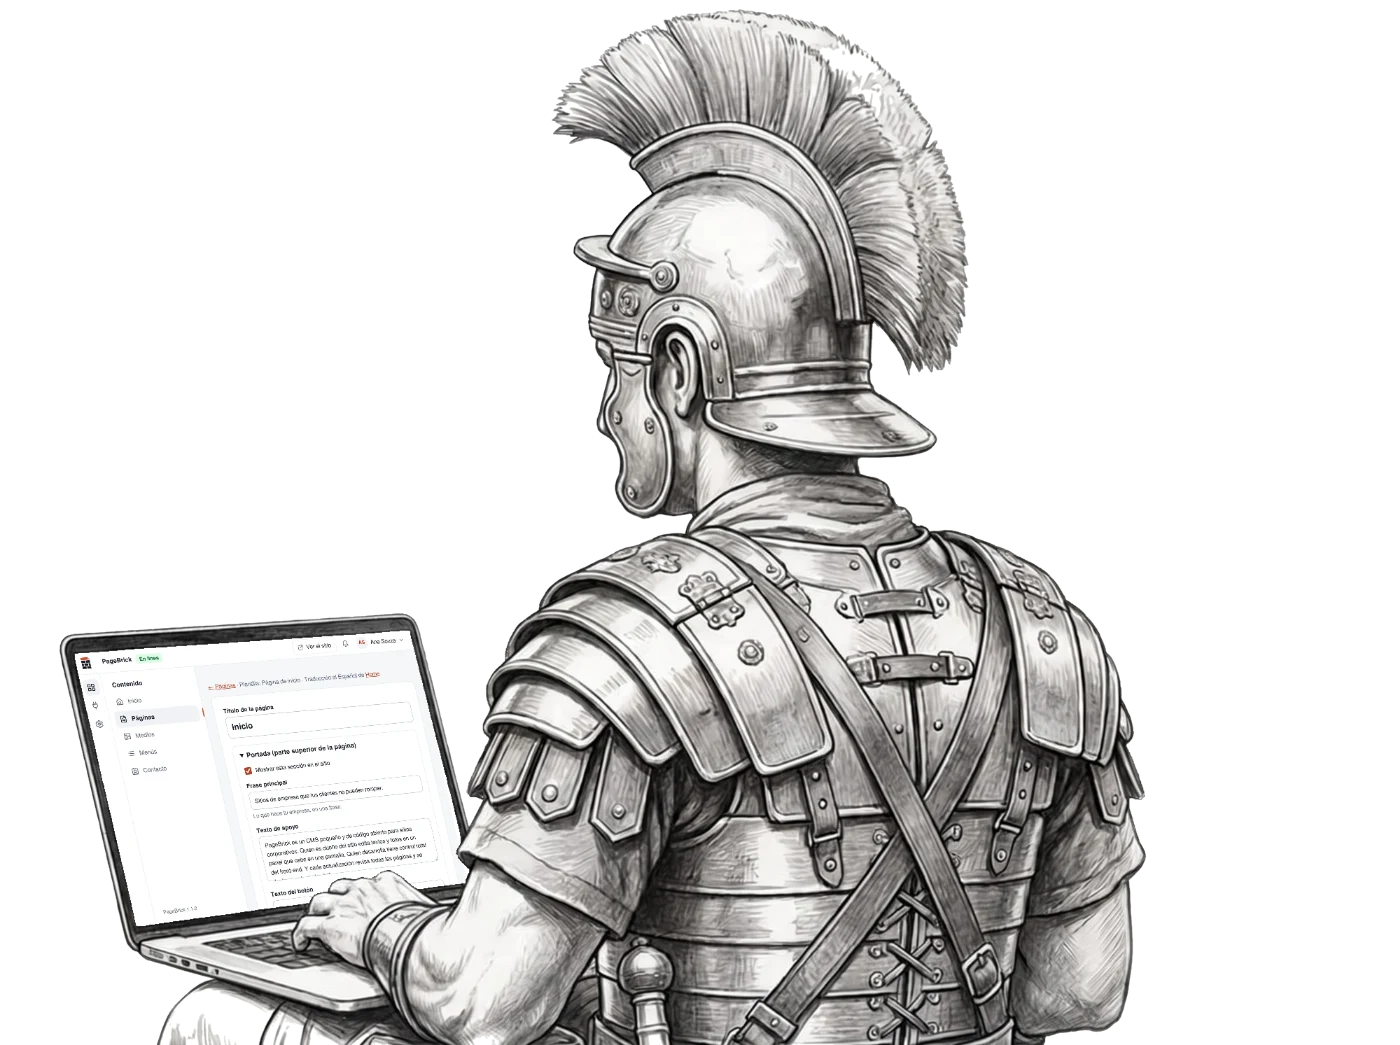
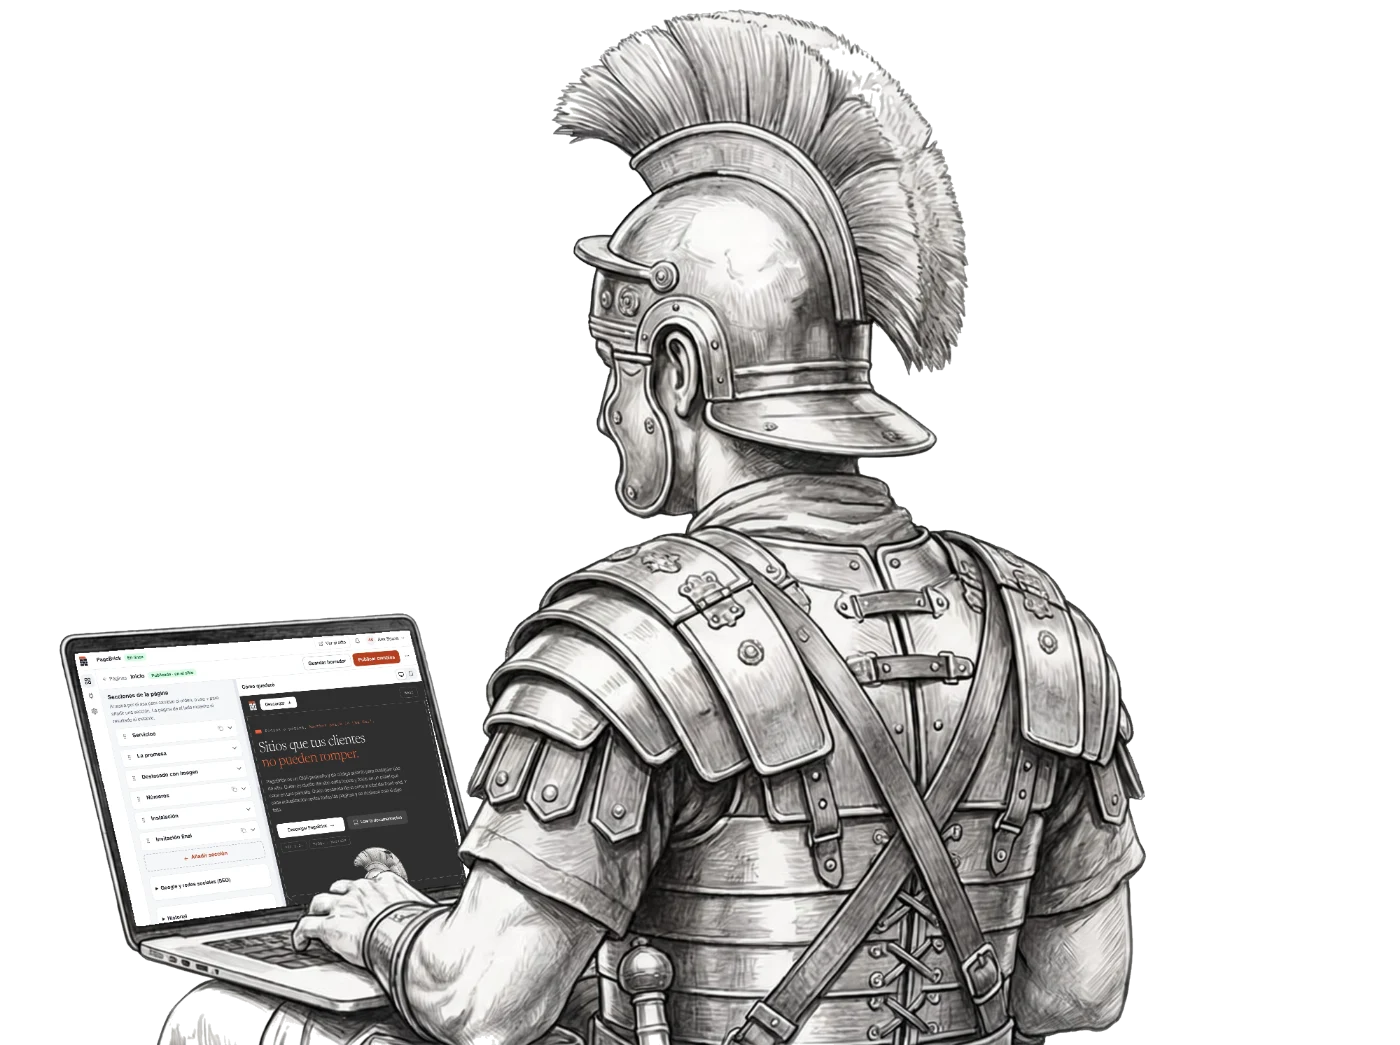
Theme 2.1.0 (continued): sections the client adds, a motto in the hero, new pictures of the panel
Home and simple pages turn on the sections the client adds in the panel (PageBrick 1.3), drawn as plain HTML with a few lines of style.

A motto above the headline: "Page by page." (translated) and the title of a song about bricks, which stays in English in every language.

The panel in the laptops of the two statues, the dark dashboard of the demo content and the picture of the theme were taken again with the panel of
PageBrick 1.3: the page editor beside the site, in English, Portuguese and Spanish.

Changed region(s): [[0.0614, 0.6124, 0.3379, 0.888], [0.1229, 0.7962, 0.1536, 0.8574]]

diff --git a/pagebrick-org/assets/style.css b/pagebrick-org/assets/style.css
@@ -194,6 +194,11 @@ h1 em, h2 em { font-style: normal; color: var(--accent); }
 .hero .facts { flex-wrap: nowrap; justify-content: flex-end; margin: 0; }
 .hero .facts span { border-radius: 6px; font-size: .75rem; }
 
+/* The motto above the headline: a little brick, the phrase, and the song's title in orange (it is always English: lang=en in the markup). */
+.motto { display: flex; flex-wrap: wrap; align-items: center; gap: 4px 8px; margin: 0 0 20px; color: #cfcfcf; font: 500 .875rem/1.4 var(--mono); letter-spacing: .01em; }
+.motto::before { content: ""; flex: none; width: 20px; height: 11px; margin-right: 4px; border-radius: 2px; background: var(--orange); box-shadow: inset 0 -3px 0 rgba(0, 0, 0, .18); }
+.motto em { font-style: normal; color: var(--orange-on-dark); }
+
 /* A short announcement above the headline: an outlined tag with an orange dot. */
 .badge { margin: 0 0 24px; }
 .badge a, .badge > span { display: inline-flex; align-items: center; gap: 9px; padding: 6px 14px 6px 11px; border: 1px solid rgba(255, 255, 255, .25); border-radius: 6px;
@@ -606,3 +611,20 @@ h1 em, h2 em { font-style: normal; color: var(--accent); }
     html { scroll-behavior: auto; }
     * { transition: none !important; animation: none !important; }
 }
+
+/* Sections the client adds in the panel: the core prints plain HTML (core/blocks/*.php) and this is all the style they get. */
+.pb-block { max-width: 1200px; margin: 0 auto; padding: 4rem clamp(20px, 4vw, 40px); }
+.pb-block-text, .pb-block-faq, .pb-block-video { max-width: 780px; }
+.pb-block-image_text { display: grid; grid-template-columns: 1fr 1fr; gap: 3rem; align-items: center; }
+.pb-block h2 { margin-bottom: 1.25rem; }
+.pb-cards, .pb-numbers, .pb-gallery { display: grid; grid-template-columns: repeat(auto-fit, minmax(220px, 1fr)); gap: 1.5rem; margin: 0; padding: 0; list-style: none; }
+.pb-card img, .pb-gallery img { width: 100%; height: auto; }
+.pb-quote { margin: 1.5rem 0; }
+.pb-number strong { display: block; font: 300 2.6rem/1.1 var(--serif); color: var(--orange-ink); }
+.pb-faq-item { padding: .75rem 0; border-top: 1px solid var(--line-strong); }
+.pb-faq-item summary { cursor: pointer; font-weight: 600; }
+.pb-block-cta { max-width: none; background: var(--orange); color: var(--on-orange); text-align: center; }
+.pb-block-cta h2 { color: inherit; }
+.pb-button { display: inline-block; padding: .7rem 1.2rem; background: var(--ink); color: #fff; font-weight: 600; text-decoration: none; }
+.pb-video iframe { display: block; width: 100%; aspect-ratio: 16 / 9; border: 0; }
+@media (max-width: 800px) { .pb-block-image_text { grid-template-columns: 1fr; } }

diff --git a/pagebrick-org/theme.php b/pagebrick-org/theme.php
@@ -11,8 +11,10 @@ $items = [
 
 return [
     'templates' => [
-        // The sections after the hero can be put in any order in the panel (PageBrick 1.3+); 'plugins' is where plugins add theirs.
-        'home' => ['sections' => ['services', 'promise', 'spotlight', 'numbers', 'install', 'plugins', 'cta'], 'fields' => [
+        // The sections after the hero can be put in any order in the panel (PageBrick 1.3+); 'plugins' is where plugins add theirs. A name with a kind
+        // ('services' => 'cards') says the section is the same as that kind of piece, so the client can duplicate it; 'blocks' lets the client add pieces
+        // (text, photo with text, cards...) among the sections, drawn by the core as plain HTML (templates/blocks/ of this theme would replace them).
+        'home' => ['sections' => ['services' => 'cards', 'promise', 'spotlight', 'numbers' => 'numbers', 'install', 'plugins', 'cta' => 'cta'], 'blocks' => true, 'fields' => [
             'hero_secondary_label' => ['type' => 'text', 'label' => __('Texto do segundo botão do destaque')],
             'hero_secondary_link' => ['type' => 'link', 'label' => __('O segundo botão leva para')],
             'hero_button_hover' => ['type' => 'text', 'label' => __('Texto do botão do destaque ao passar o mouse'), 'help' => __('Aparece quando a pessoa passa o mouse no botão. Em branco: repete o texto do botão.')],
@@ -50,6 +52,7 @@ return [
             'cta_secondary_label' => ['type' => 'text', 'label' => __('Texto do segundo botão da chamada final')],
             'cta_secondary_link' => ['type' => 'link', 'label' => __('O segundo botão da chamada final leva para')],
         ]],
+        'page' => ['sections' => ['content'], 'blocks' => true],
         'services' => ['fields' => [
             'cta_button_hover' => ['type' => 'text', 'label' => __('Texto do botão da chamada final ao passar o mouse'), 'help' => __('Aparece quando a pessoa passa o mouse no botão. Em branco: repete o texto do botão.')],
         ]],

diff --git a/pagebrick-org/templates/home.php b/pagebrick-org/templates/home.php
@@ -43,6 +43,8 @@ $simulator = [
                     <?php endif ?>
                 </p>
             <?php endif ?>
+            <?php // The motto is a wink at a song about bricks: its title stays in English whatever the language of the site (only the phrase before it is translated). ?>
+            <p class="motto intro" style="--i: 0"><span><?= e(__('Página por página.')) ?></span> <em lang="en">Another Brick in the Wall.</em></p>
             <h1 class="intro" style="--i: 0"><?= pborg_em($hero->title) ?></h1>
             <?php if (!$hero->text->isEmpty()): ?><p class="lead intro" style="--i: 1"><?= $hero->text ?></p><?php endif ?>
             <div class="hero-row">
@@ -242,5 +244,5 @@ $simulator = [
 <?php $parts['cta'] = ob_get_clean() ?>
 
 <?php foreach (pborg_order($page, ['services', 'promise', 'spotlight', 'numbers', 'install', 'plugins', 'cta']) as $name): ?>
-<?= pborg_section($name, $parts[$name] ?? '') ?>
+<?= pborg_section($name, str_starts_with($name, 'block-') ? pborg_block($page, $name) : ($parts[$name] ?? '')) ?>
 <?php endforeach ?>

diff --git a/pagebrick-org/templates/page.php b/pagebrick-org/templates/page.php
@@ -1,20 +1,11 @@
 <?php
 /**
+ * A simple page: its own content and, from PageBrick 1.3, the sections the client added around it (theme.php: 'blocks').
  * @var PbGroup $page
  * @var PbValue $title
  */
+$content = fn() => pb_include(__DIR__ . '/parts/page-content.php', ['page' => $page, 'title' => $title]);
 ?>
 <article class="page">
-    <header class="page-top band-dark guides">
-        <div class="wrap narrow">
-            <h1><?= $title ?></h1>
-            <?php if (!$page->intro->isEmpty()): ?><p class="lead"><?= $page->intro ?></p><?php endif ?>
-        </div>
-    </header>
-    <?php if (!$page->image->isEmpty()): ?>
-        <figure class="wrap narrow page-image page-body"><?= $page->image->img('', 'full', false) ?></figure>
-    <?php endif ?>
-    <?php if (!$page->body->isEmpty()): ?>
-        <div class="wrap narrow prose page-body"><?= $page->body ?></div>
-    <?php endif ?>
+    <?= function_exists('pb_sections') ? pb_sections($page, ['content'], $content) : $content() ?>
 </article>

diff --git a/pagebrick-org/templates/parts/page-content.php b/pagebrick-org/templates/parts/page-content.php
@@ -1,0 +1,19 @@
+<?php
+/**
+ * The page's own content: the dark band with the title and introduction, the photo and the text.
+ * @var PbGroup $page
+ * @var PbValue $title
+ */
+?>
+<header class="page-top band-dark guides">
+    <div class="wrap narrow">
+        <h1><?= $title ?></h1>
+        <?php if (!$page->intro->isEmpty()): ?><p class="lead"><?= $page->intro ?></p><?php endif ?>
+    </div>
+</header>
+<?php if (!$page->image->isEmpty()): ?>
+    <figure class="wrap narrow page-image page-body"><?= $page->image->img('', 'full', false) ?></figure>
+<?php endif ?>
+<?php if (!$page->body->isEmpty()): ?>
+    <div class="wrap narrow prose page-body"><?= $page->body ?></div>
+<?php endif ?>

diff --git a/pagebrick-org/functions.php b/pagebrick-org/functions.php
@@ -145,6 +145,12 @@ function pborg_order(PbGroup $page, array $names): array
     return method_exists($page, 'order') ? $page->order($names) : $names;
 }
 
+/** A piece the client added (PageBrick 1.3+; older versions never ask for one). */
+function pborg_block(PbGroup $page, string $section): string
+{
+    return function_exists('pb_block') ? pb_block($page, $section) : '';
+}
+
 /** A section of the page, marked while the client edits it in the panel (PageBrick 1.3+). */
 function pborg_section(string $name, string $html): string
 {

diff --git a/pagebrick-org/lang/es.php b/pagebrick-org/lang/es.php
@@ -98,6 +98,7 @@ return [
     'A página inicial já está no ar' => 'La página de inicio ya está en línea',
     'Um legionário romano usando o painel do PageBrick num notebook' => 'Un legionario romano usando el panel de PageBrick en un portátil',
     'Todas as páginas conferidas' => 'Todas las páginas revisadas',
+    'Página por página.' => 'Página a página.',
     'Nenhuma deu erro' => 'Ninguna falló',
     'Voltou sozinho' => 'Volvió sola',
     'Quando algo quebra' => 'Cuando algo se rompe',

diff --git a/pagebrick-org/lang/en.php b/pagebrick-org/lang/en.php
@@ -98,6 +98,7 @@ return [
     'A página inicial já está no ar' => 'The home page is live',
     'Um legionário romano usando o painel do PageBrick num notebook' => 'A Roman legionary using the PageBrick panel on a laptop',
     'Todas as páginas conferidas' => 'Every page checked',
+    'Página por página.' => 'Page by page.',
     'Nenhuma deu erro' => 'None failed',
     'Voltou sozinho' => 'Rolled back by itself',
     'Quando algo quebra' => 'When something breaks',
